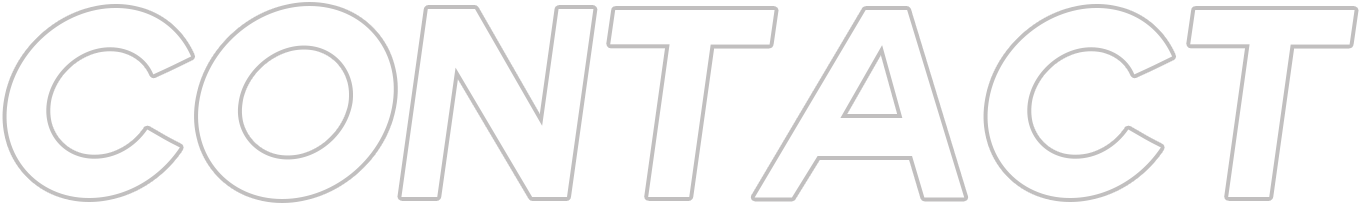
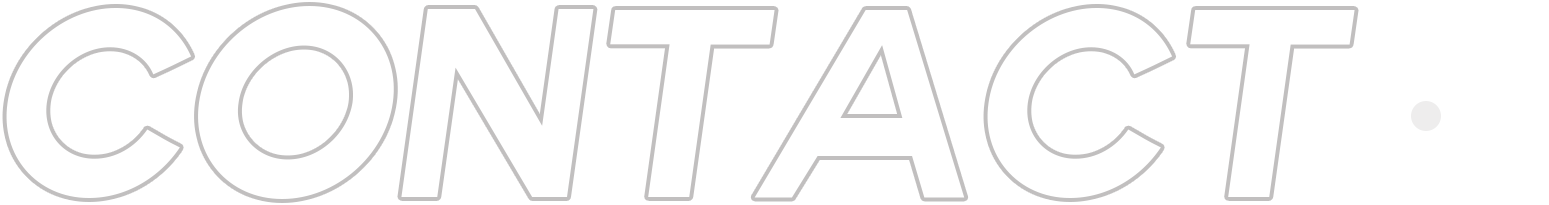
footer

diff --git a/css/main.css b/css/main.css
@@ -1099,6 +1099,7 @@
 
 /******************* section09  *******************************/
 #section09 {
+  /* background-color: #e1e1e1; */
   /* 기다리고싶은 숫자만큼 변경 */
   height: calc(100vh + 1548px - 370px + 1000px);
   width: 1920px;
@@ -1134,7 +1135,7 @@
 
 /************************ section11  **************************/
 #section11 {
-  height: 100vh;
+  height: 1800px;
   width: 1920px;
   background-image: url(../img/part3-4/background.jpg);
 }
@@ -1144,6 +1145,7 @@
   top: 250px;
   left: 50%;
   transform: translateX(-50%);
+  z-index: 100;
 }
 
 #section11 .line {
@@ -1152,7 +1154,7 @@
   width: 1920px;
   height: 1px;
   background-color: rgb(227, 227, 227);
-  /* 라인 만들기 (코드로 작성 할 수 있는 것은 코드로 작성해주는 것이 이미지를 넣는것보다 나음)*/
+  z-index: 100;
 }
 
 #section11 .color_text_all_11 {
@@ -1160,27 +1162,66 @@
   top: 400px;
   left: 50%;
   transform: translateX(-50%);
+  z-index: 100;
 }
 
 #section11 .long_text_11 {
   position: absolute;
-  bottom: 50px;
+  top: 800px;
   left: 50px;
+  z-index: 100;
 }
 #section11 .circle_text_11 {
   position: absolute;
+  /* position: fixed; */
   right: 100px;
   top: 50px;
+  width: 222px;
+  height: 221px;
+  z-index: 200;
 }
 #section11 .arrow_11 {
   position: absolute;
   right: 190px;
   top: 142px;
+  z-index: 100;
 }
-#section11 .image01_11 {
+/* #section11 .image01_11 {
   position: absolute;
-  right: 100px;
-  bottom: 100px;
+  right: 20px;
+  bottom: 20px;
+} */
+
+/* #section11 .image01_11 {
+  position: absolute;
+  right: 1px;
+  bottom: 1px;
+  transform: scale(0.2);
+  transition: all 0.7s;
+  transform-origin: center;
+} */
+/* #section11 .image01_11.on > img {
+  transform: scale(1);
+  border-radius: 0;
+} */
+
+#section11 .take_11 {
+  position: absolute;
+  left: -1000px;
+  top: 1150px;
+  z-index: 100;
+}
+#section11 .noise_free_11 {
+  position: absolute;
+  left: -1700px;
+  top: 1300px;
+  z-index: 100;
+}
+#section11 .calls_11 {
+  position: absolute;
+  left: -1000px;
+  top: 1450px;
+  z-index: 100;
 }
 
 /************************ section12  **************************/
@@ -1195,7 +1236,94 @@
   width: 1920px;
   background: rgb(183, 252, 45);
 }
+/************************ section14 **************************/
+#section14 {
+  height: 100vh;
+  width: 1920px;
+  background: rgb(41, 127, 255);
+}
+/************************ footer  **************************/
+#footer {
+  position: relative;
+  height: 780px;
+  width: 1920px;
+  background: rgb(11, 12, 12);
+}
 
+#footer .contact_footer {
+  display: flex;
+  position: absolute;
+  top: 100px;
+  width: 100vw;
+  height: 205px;
+  /* overflow: hidden; */
+}
+
+#footer .circle_text_footer {
+  position: absolute;
+  bottom: 70px;
+  right: 80px;
+  width: 222px;
+  height: 221px;
+  z-index: 100;
+}
+
+#footer .arrow_footer {
+  position: absolute;
+  bottom: 145px;
+  right: 170px;
+  z-index: 100;
+}
+#footer .samsung_footer {
+  position: absolute;
+  top: 500px;
+  left: 150px;
+}
+#footer .email_footer {
+  position: absolute;
+  top: 600px;
+  left: 150px;
+}
+#footer .email_line {
+  position: absolute;
+  top: 640px;
+  left: 150px;
+  width: 300px;
+  height: 2px;
+  background-color: rgb(227, 227, 227);
+  z-index: 100;
+}
+#footer .united_states_footer {
+  position: absolute;
+  top: 600px;
+  left: 500px;
+}
+#footer .united_states_line {
+  position: absolute;
+  top: 640px;
+  left: 500px;
+  width: 300px;
+  height: 2px;
+  background-color: rgb(227, 227, 227);
+  z-index: 100;
+}
+#footer .small_arrow_footer {
+  position: absolute;
+  top: 610px;
+  left: 840px;
+}
+#footer .linkedin_footer {
+  position: absolute;
+  top: 500px;
+  left: 950px;
+}
+#footer .samsung_text_footer {
+  position: absolute;
+  top: 500px;
+  left: 1150px;
+}
+
+/****************************************************/
 .sticky-parent {
   height: 700vh;
 }

diff --git a/main.html b/main.html
@@ -568,9 +568,34 @@
 
         <section id="section09">
           <div>section09 시작</div>
-          <div class="galaxy_09">
+          <div class="galaxy01_09">
             <img src="/img/part3-2/galaxy.png" alt="" />
           </div>
+          <!-- <div class="buds_white01_09">
+            <img src="/img/part3-2/buds_white.png" alt="" />
+          </div>
+          <div class="pro01_09">
+            <img src="/img/part3-2/pro.png" alt="" />
+          </div>
+          <div class="galaxy02_09">
+            <img src="/img/part3-2/galaxy.png" alt="" />
+          </div>
+          <div class="buds_white02_09">
+            <img src="/img/part3-2/buds_black.png" alt="" />
+          </div>
+          <div class="pro02_09">
+            <img src="/img/part3-2/pro.png" alt="" />
+          </div>
+
+          <div class="image01_09">
+            <img src="/img/part3-2/image01.png" alt="" />
+          </div>
+          <div class="image02_09">
+            <img src="/img/part3-2/image02.png" alt="" />
+          </div>
+          <div class="image03_09">
+            <img src="/img/part3-2/image03.png" alt="" />
+          </div> -->
         </section>
 
         <section id="section10">
@@ -585,6 +610,7 @@
             </ul>
           </div>
         </section>
+
         <section id="section11">
           <div class="color_11">
             <img src="img/part3-4/color.png" alt="" />
@@ -606,9 +632,63 @@
           <div class="image01_11">
             <img src="img/part3-4/image01.jpg" alt="" />
           </div>
+          <!-- <div class="image02_11">
+            <img src="img/part3-4/image02.jpg" alt="" />
+          </div>
+          <div class="image03_11">
+            <img src="img/part3-4/image03.jpg" alt="" />
+          </div>
+          <div class="image04_11">
+            <img src="img/part3-4/image04.jpg" alt="" />
+          </div> -->
+
+          <div class="take_11">
+            <img src="img/part3-5/take.png" alt="" />
+          </div>
+          <div class="noise_free_11">
+            <img src="img/part3-5/noise_free.png" alt="" />
+          </div>
+          <div class="calls_11">
+            <img src="img/part3-5/calls.png" alt="" />
+          </div>
         </section>
+
         <section id="section12"></section>
         <section id="section13"></section>
+        <section id="section14"></section>
+        <footer id="footer">
+          <div class="contact_footer">
+            <img src="img/part_footer/contact.png" alt="" />
+            <img src="img/part_footer/contact.png" alt="" />
+            <img src="img/part_footer/contact.png" alt="" />
+          </div>
+          <div class="circle_text_footer">
+            <img src="img/part_footer/circle_text.png" alt="" />
+          </div>
+          <div class="arrow_footer">
+            <img src="img/part_footer/arrow.png" alt="" />
+          </div>
+          <div class="samsung_footer">
+            <img src="img/part_footer/samsung.png" alt="" />
+          </div>
+          <div class="email_footer">
+            <img src="img/part_footer/email.png" alt="" />
+          </div>
+          <div class="email_line"></div>
+          <div class="united_states_footer">
+            <img src="img/part_footer/united_states.png" alt="" />
+          </div>
+          <div class="united_states_line"></div>
+          <div class="small_arrow_footer">
+            <img src="img/part_footer/small_arrow.png" alt="" />
+          </div>
+          <div class="linkedin_footer">
+            <img src="img/part_footer/linkedin.png" alt="" />
+          </div>
+          <div class="samsung_text_footer">
+            <img src="img/part_footer/samsung_text.png" alt="" />
+          </div>
+        </footer>
       </div>
     </div>
 

diff --git a/js/main.js b/js/main.js
@@ -162,6 +162,12 @@ window.addEventListener("scroll", () => {
   if (scrollTop > 10400) {
     $(".title2_07").classList.add("on");
   }
+
+  if (scrollTop > 18970) {
+    $(".image01_11").classList.add("on");
+  } else {
+    $(".image01_11").classList.remove("on");
+  }
 });
 
 gsap.to(".fix01", {
@@ -505,6 +511,33 @@ gsap.to(".blinking03", {
   yoyo: true,
   opacity: 0,
   yoyoEase: "power2.in",
+  repeat: -1,
+});
+
+/////////////////////////// section11 //////////////////////////////////////
+gsap.to("#circle_text_11", {
+  // 몇도 돌아갈건지
+  rotation: 360,
+  // 가속도
+  ease: "none",
+  // 몇초에 한번씩 돌아갈건지 (속도)
+  duration: 8,
+  // -1은 무한대로 돌아가는 것
+  repeat: -1,
+});
+
+gsap.to(".contact_footer", {
+  // 사진 가로 크기
+  x: -1549,
+  ease: "none",
+  duration: 4,
+  repeat: -1,
+});
+
+gsap.to("#circle_text_footer", {
+  rotation: 360,
+  ease: "none",
+  duration: 8,
   repeat: -1,
 });
 
